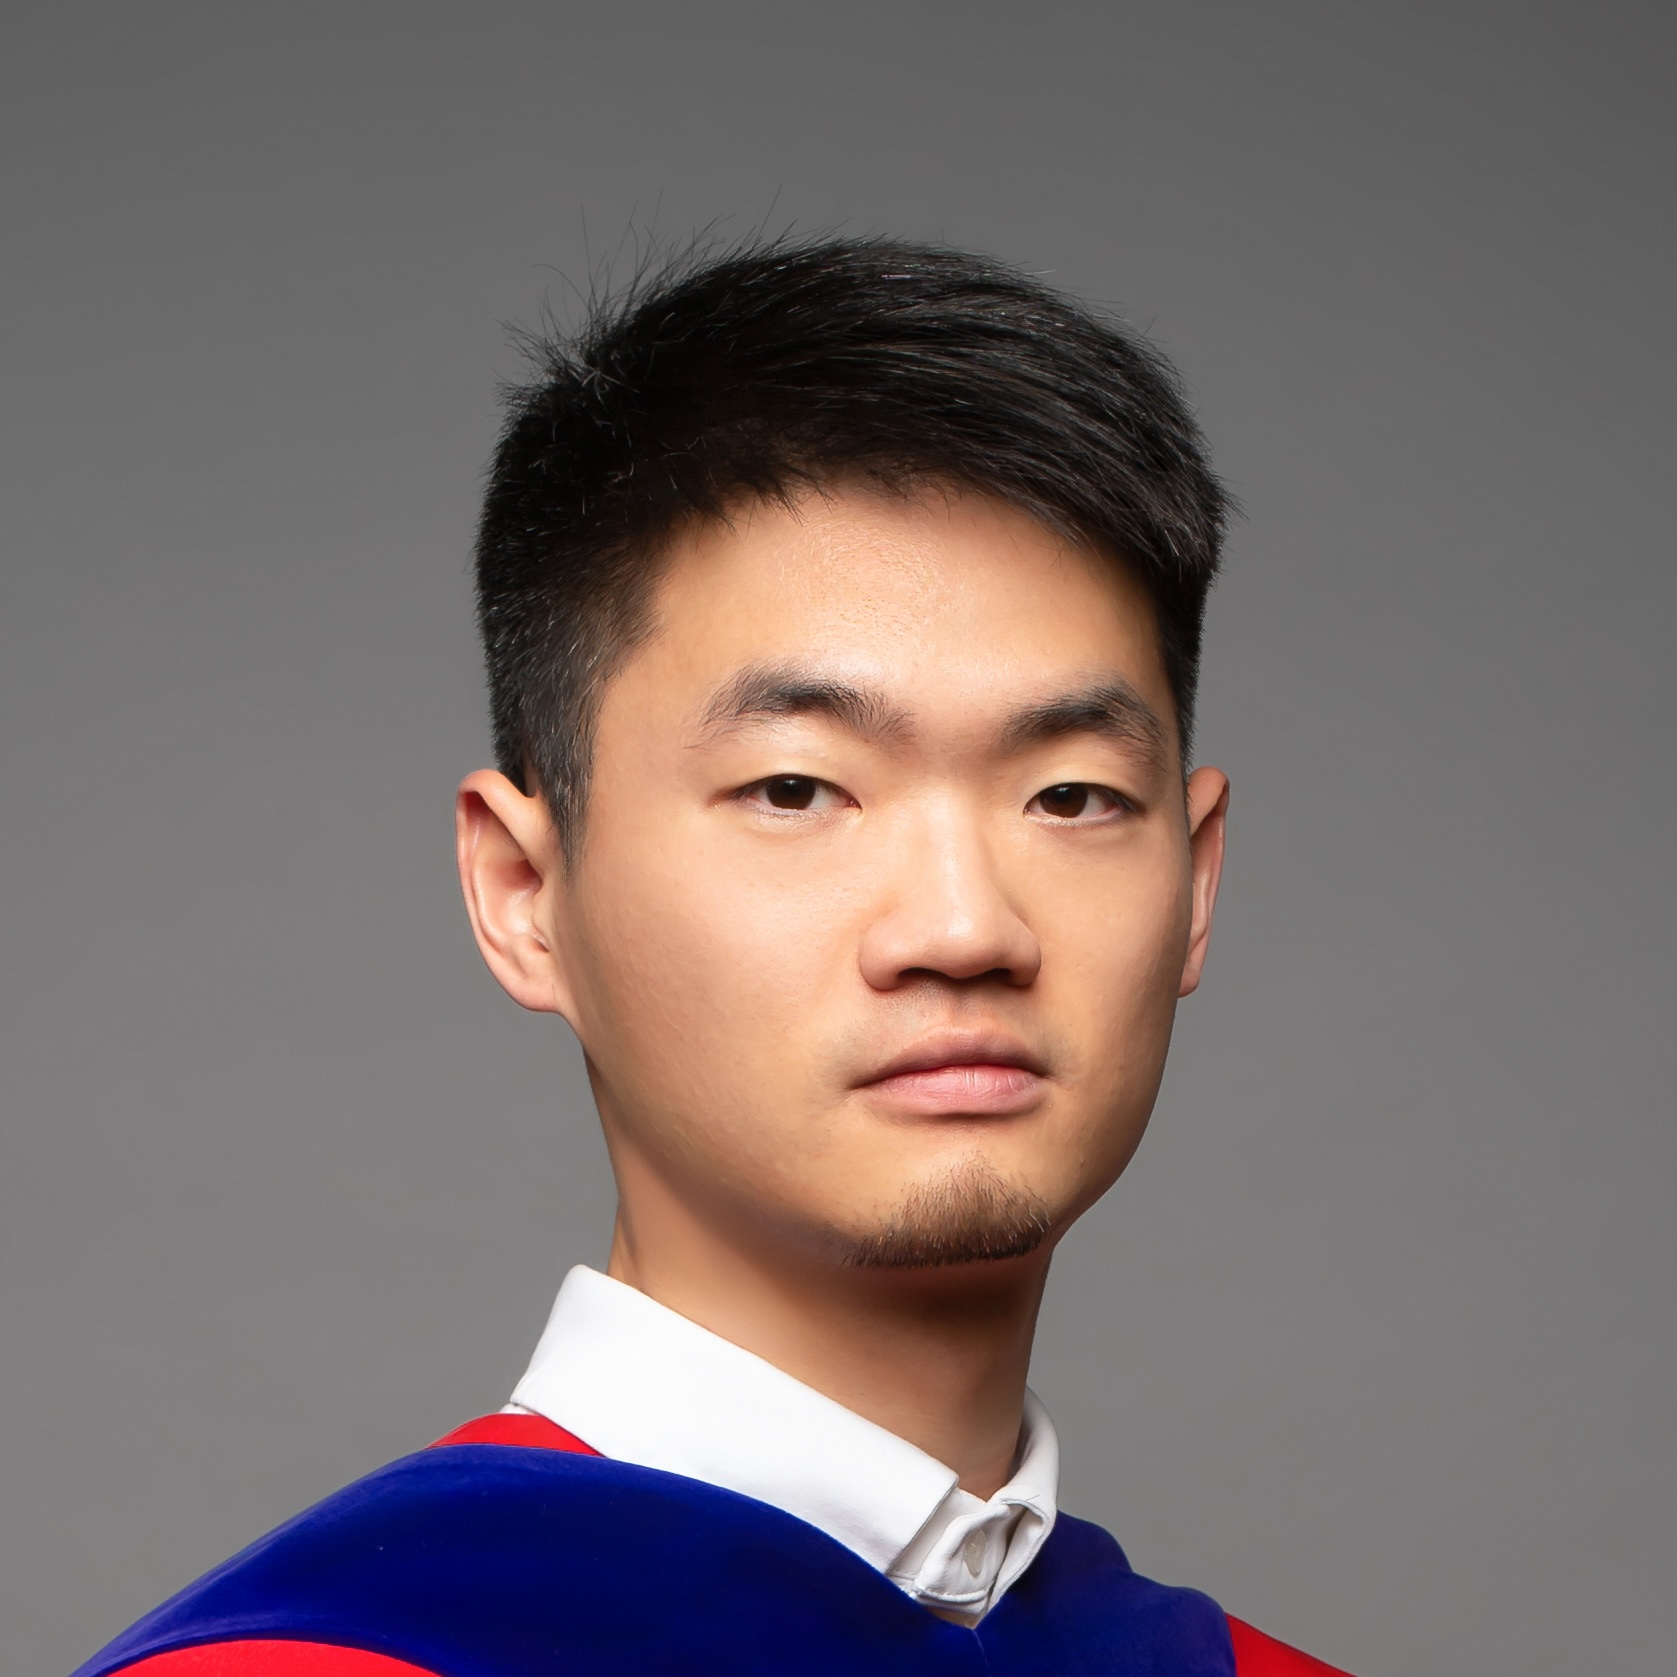
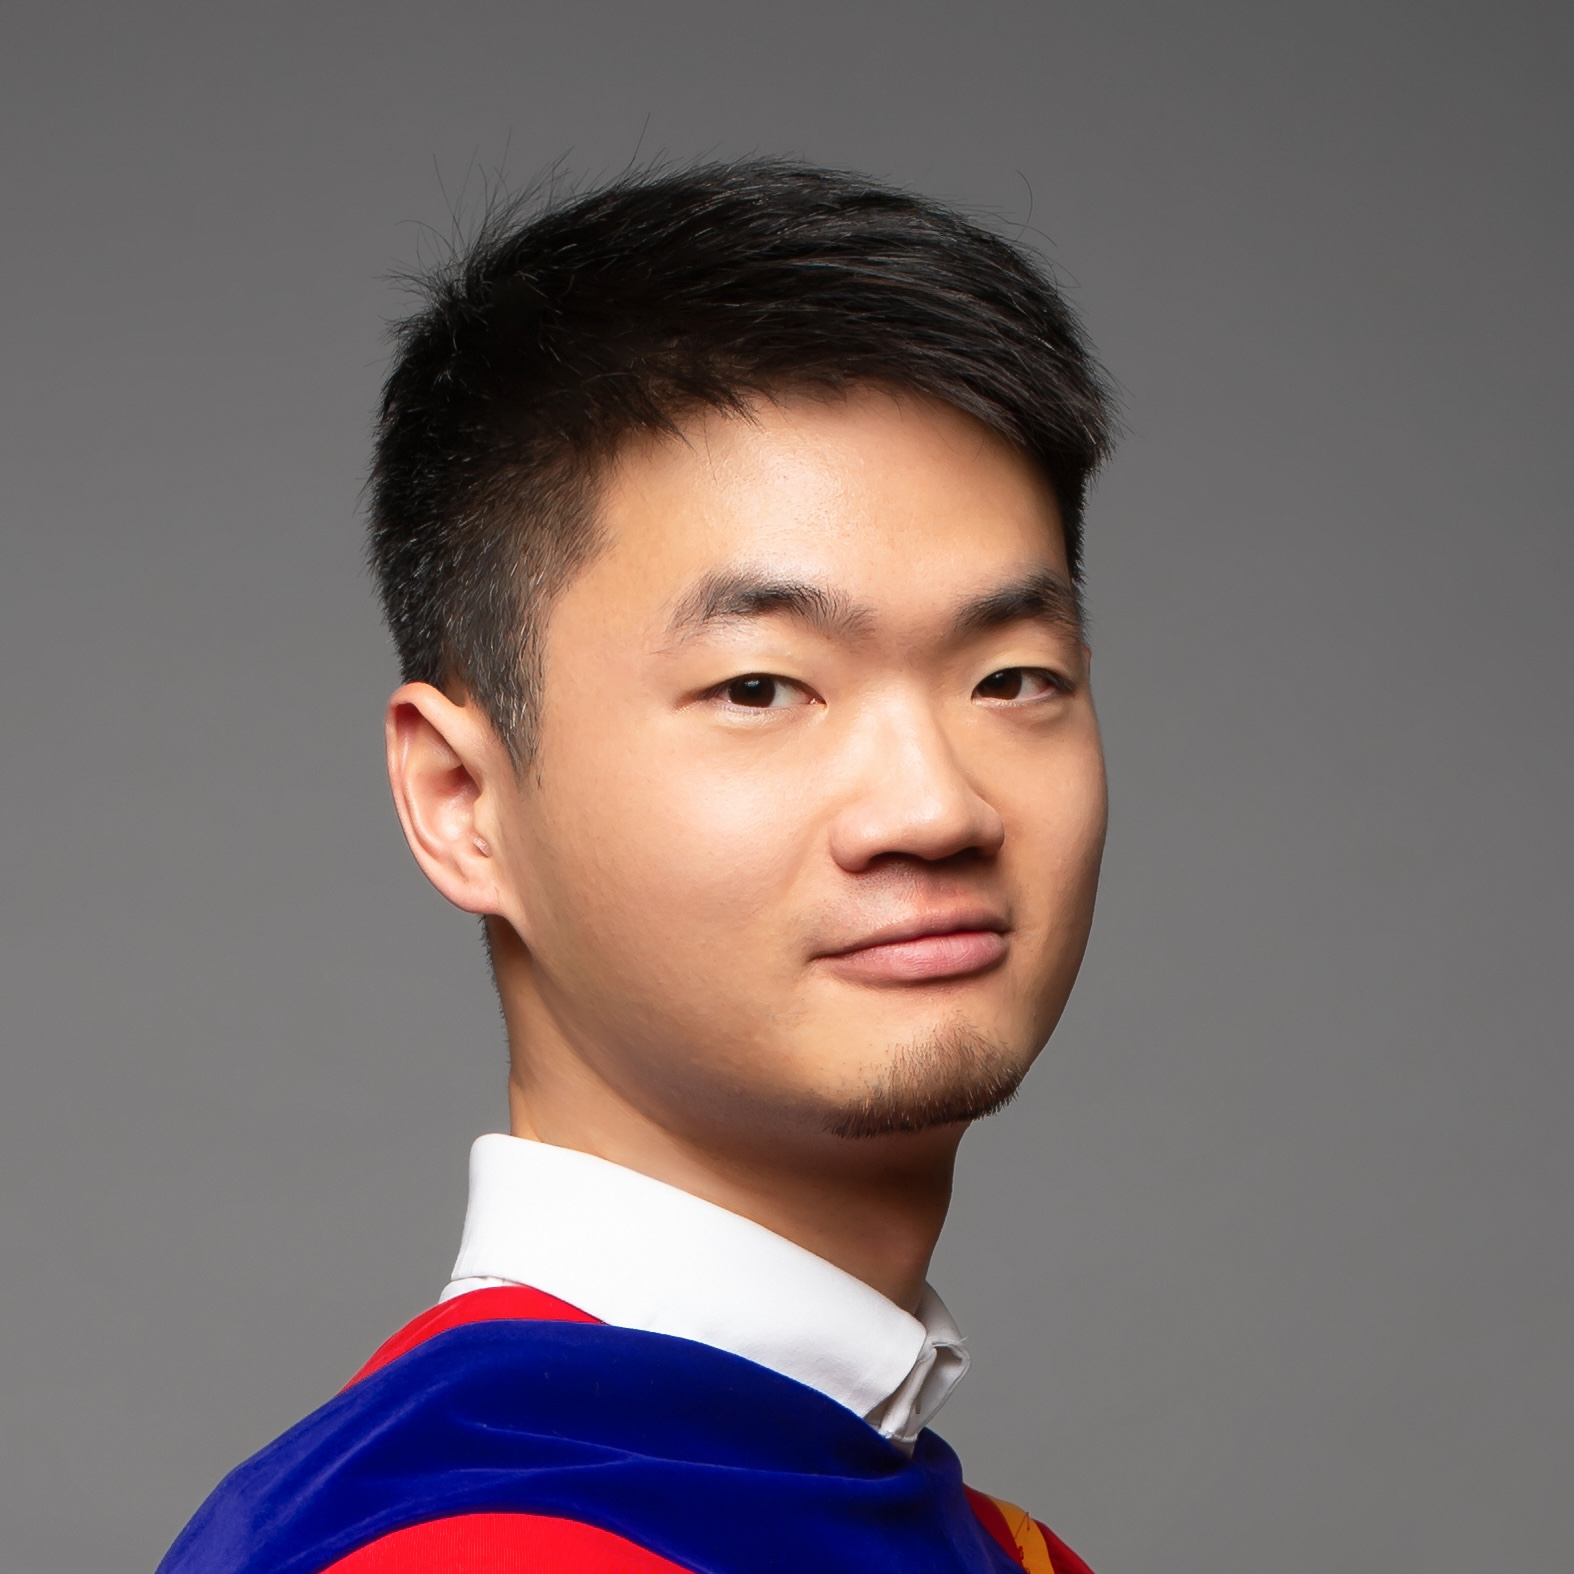
update photos

Changed region(s): [[0.0311, 0.0934, 0.8094, 1.0]]

diff --git a/_pages/about.md b/_pages/about.md
@@ -17,7 +17,7 @@ I received my B.S. in Electrical Engineering from National Taiwan University (NT
 
 In addition to research interests, I'm also into video editing and photography. Check out my [vlogs](https://youtube.com/playlist?list=PLOgPUn4uH3eyITpOyIsteJNxuKTRnYb6v) and [photos](https://www.flickr.com/photos/194564724@N08/albums).
 
-![hobby](../images/hobby.png)
+![hobby](../images/grad.jpg)
 
 # Latest News
 **Jun 24, 2025**: Defended my dissertation! 
